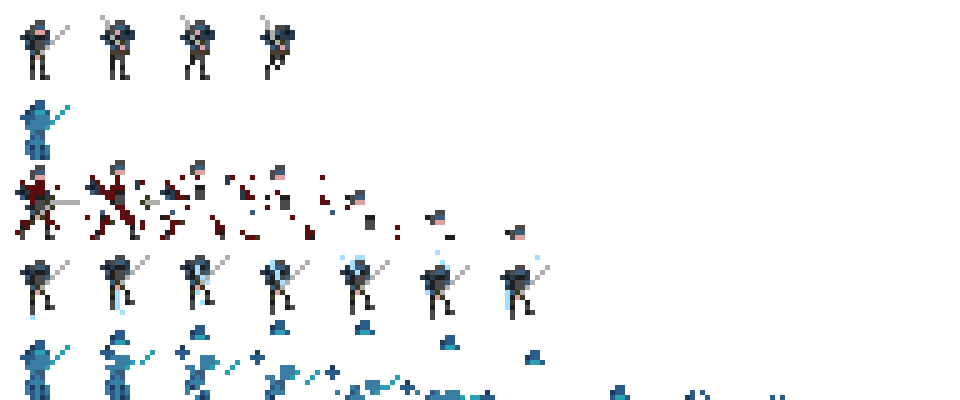
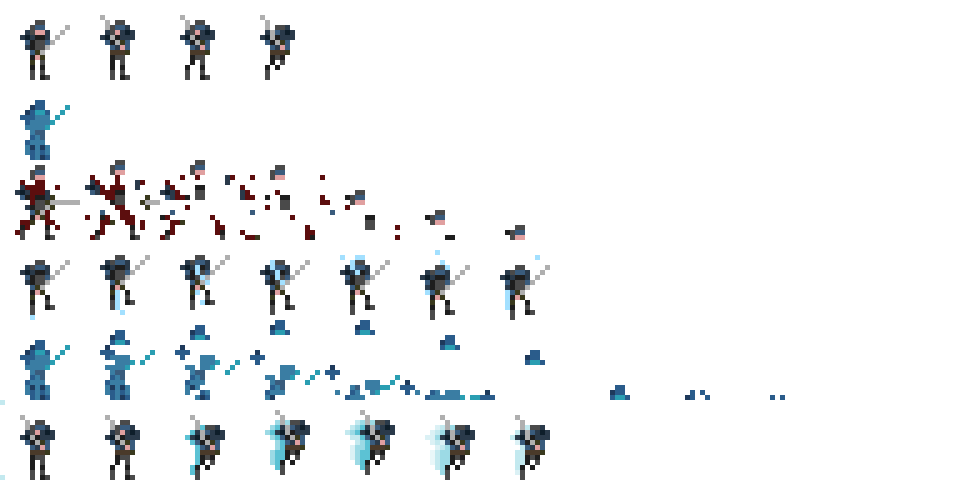
new

diff --git a/src/scripts/Sound.ts b/src/scripts/Sound.ts
@@ -6,7 +6,7 @@ class Sound{
     lobby_back: any
 
     constructor(){
-        this.pool = [new Track(), new Track(), new Track(),  new Track()]
+        this.pool = [new Track(), new Track(), new Track(),  new Track(), new Track()]
 
         this.back = new Audio()
         this.back.src = 'sounds/99_Cavern_of_Lost_Souls.mp3'
@@ -33,7 +33,7 @@ class Sound{
     } 
 
     setSound(name: string, distance = 0){
-        let track = this.pool[3]
+        let track = this.pool[4]
 
         if(distance < track.distance){
             let info = this.getSrcByName(name)
@@ -177,7 +177,7 @@ class Sound{
             result.max_volume = 0.1
         }
         else if(name === 'holy cast'){
-            let v = ['holybolt1.wav', 'holybolt2.wav', 'holybolt3.wav']
+            let v = ['holybolt1.wav', 'holybolt2.wav', 'holybolt3.wav','handofgodbolt.wav']
          
             result.src = v[Math.floor(Math.random() * v.length)]
             result.max_volume = 0.1

diff --git a/src/scripts/Render.ts b/src/scripts/Render.ts
@@ -88,6 +88,7 @@ import SpectralSword from "../Sprites/Enemy/SpectralSword"
 import FlyingMucus from "../Sprites/Effect/FlyingMucus"
 import Ward from "../Sprites/Effect/Ward"
 import ItemDrop from "../Sprites/Effect/ItemDrop"
+import MetalThorns from "../Sprites/Effect/MetalThorns"
 
 export default class Render{
     ctx: any
@@ -284,6 +285,9 @@ export default class Render{
         }
         else if(elem.name === 'frost explosion medium'){
             return new FrostExplosionMedium(elem.id)
+        }
+        else if(elem.name === 'metal thorns'){
+            return new MetalThorns(elem.id)
         }
         else if(elem.name === 'fire_explosion_medium'){
             return new FireExplosionMedium(elem.id)

diff --git a/src/Sprites/Player/PlayerSprite.ts b/src/Sprites/Player/PlayerSprite.ts
@@ -155,6 +155,13 @@ export default class PlayerSprite extends UnitSprite{
             this.max_frame = 9
             this.max_frame_tick = 2
         }
+        else if(this.state === 'dash'){
+            this.repeatable = false
+            this.sprite_name = 'swordman3'
+            this.y_frame_offset = 400
+            this.max_frame = 6
+            this.max_frame_tick = 2
+        }
         else if(this.state === 'explode'){
             this.repeatable = false
             this.sprite_name = 'swordman3'

diff --git a/src/Sprites/Effect/MetalThorns.ts b/src/Sprites/Effect/MetalThorns.ts
@@ -1,0 +1,17 @@
+import Sprite from "../Sprite";
+
+export default class MetalThorns extends Sprite{
+    constructor(id: string){
+        super(id)
+
+        this.max_frame = 7
+        this.max_frame_tick = 6
+        this.sprite_h = 100
+        this.sprite_w = 100
+        this.sprite_name = 'pack4'
+        this.by_centr = true
+        this.is_bottom = true
+       
+        this.y_frame_offset = 775
+    }
+}
